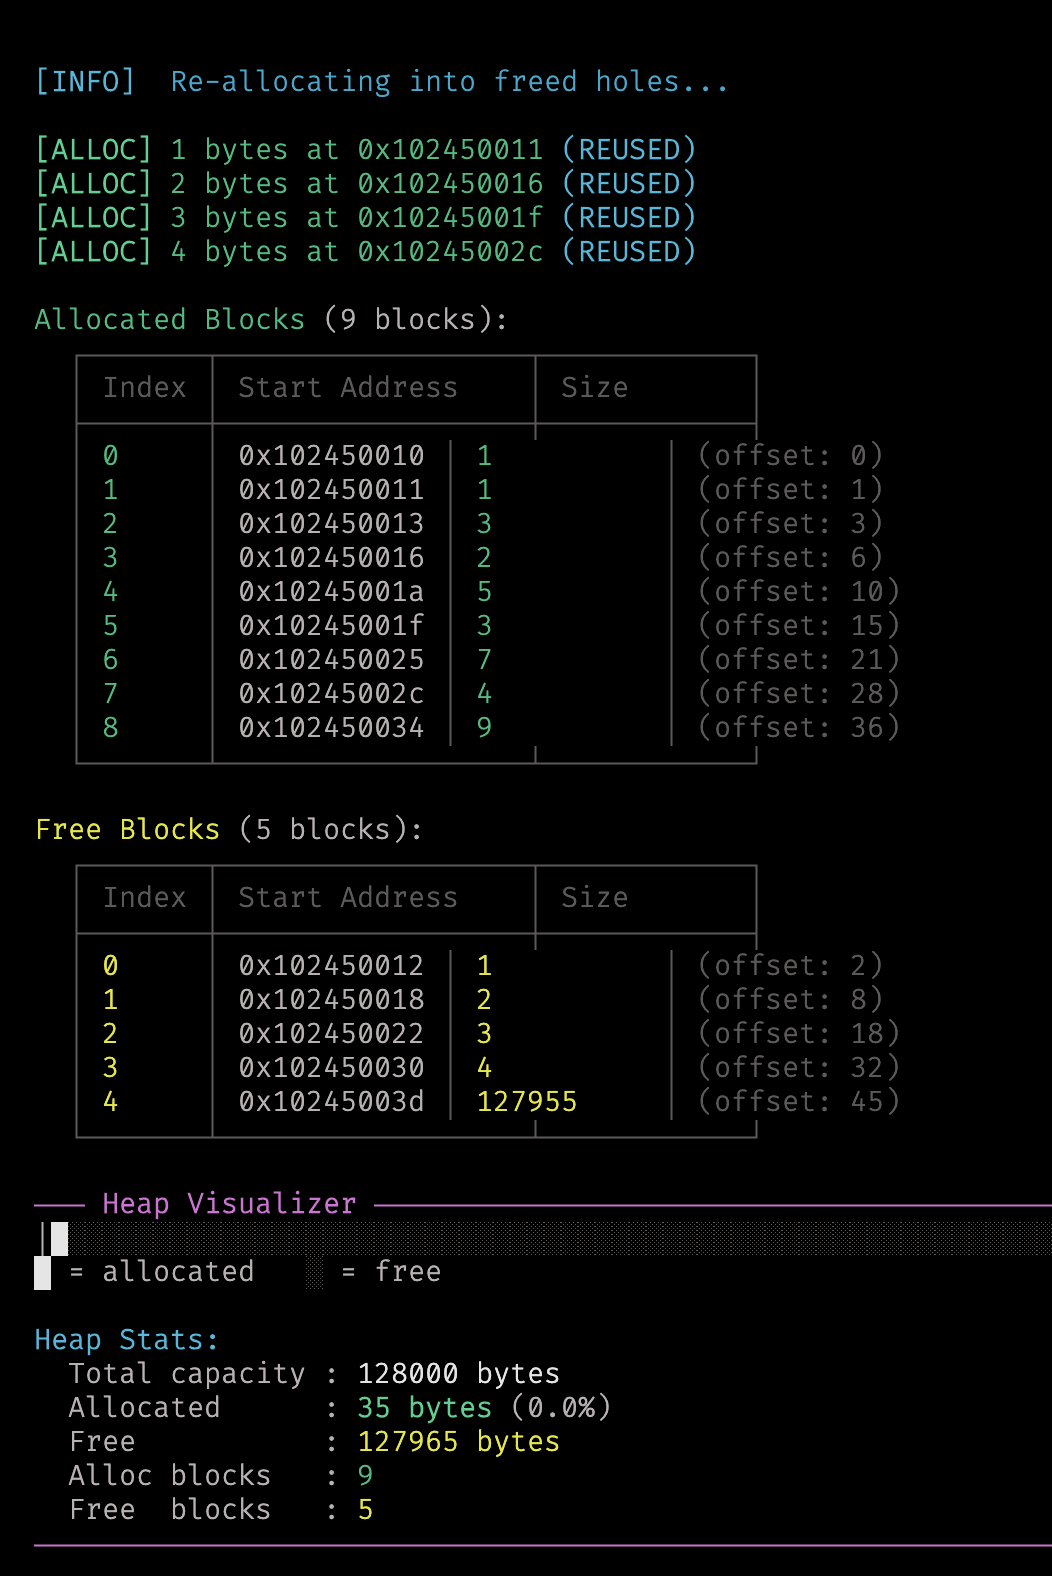
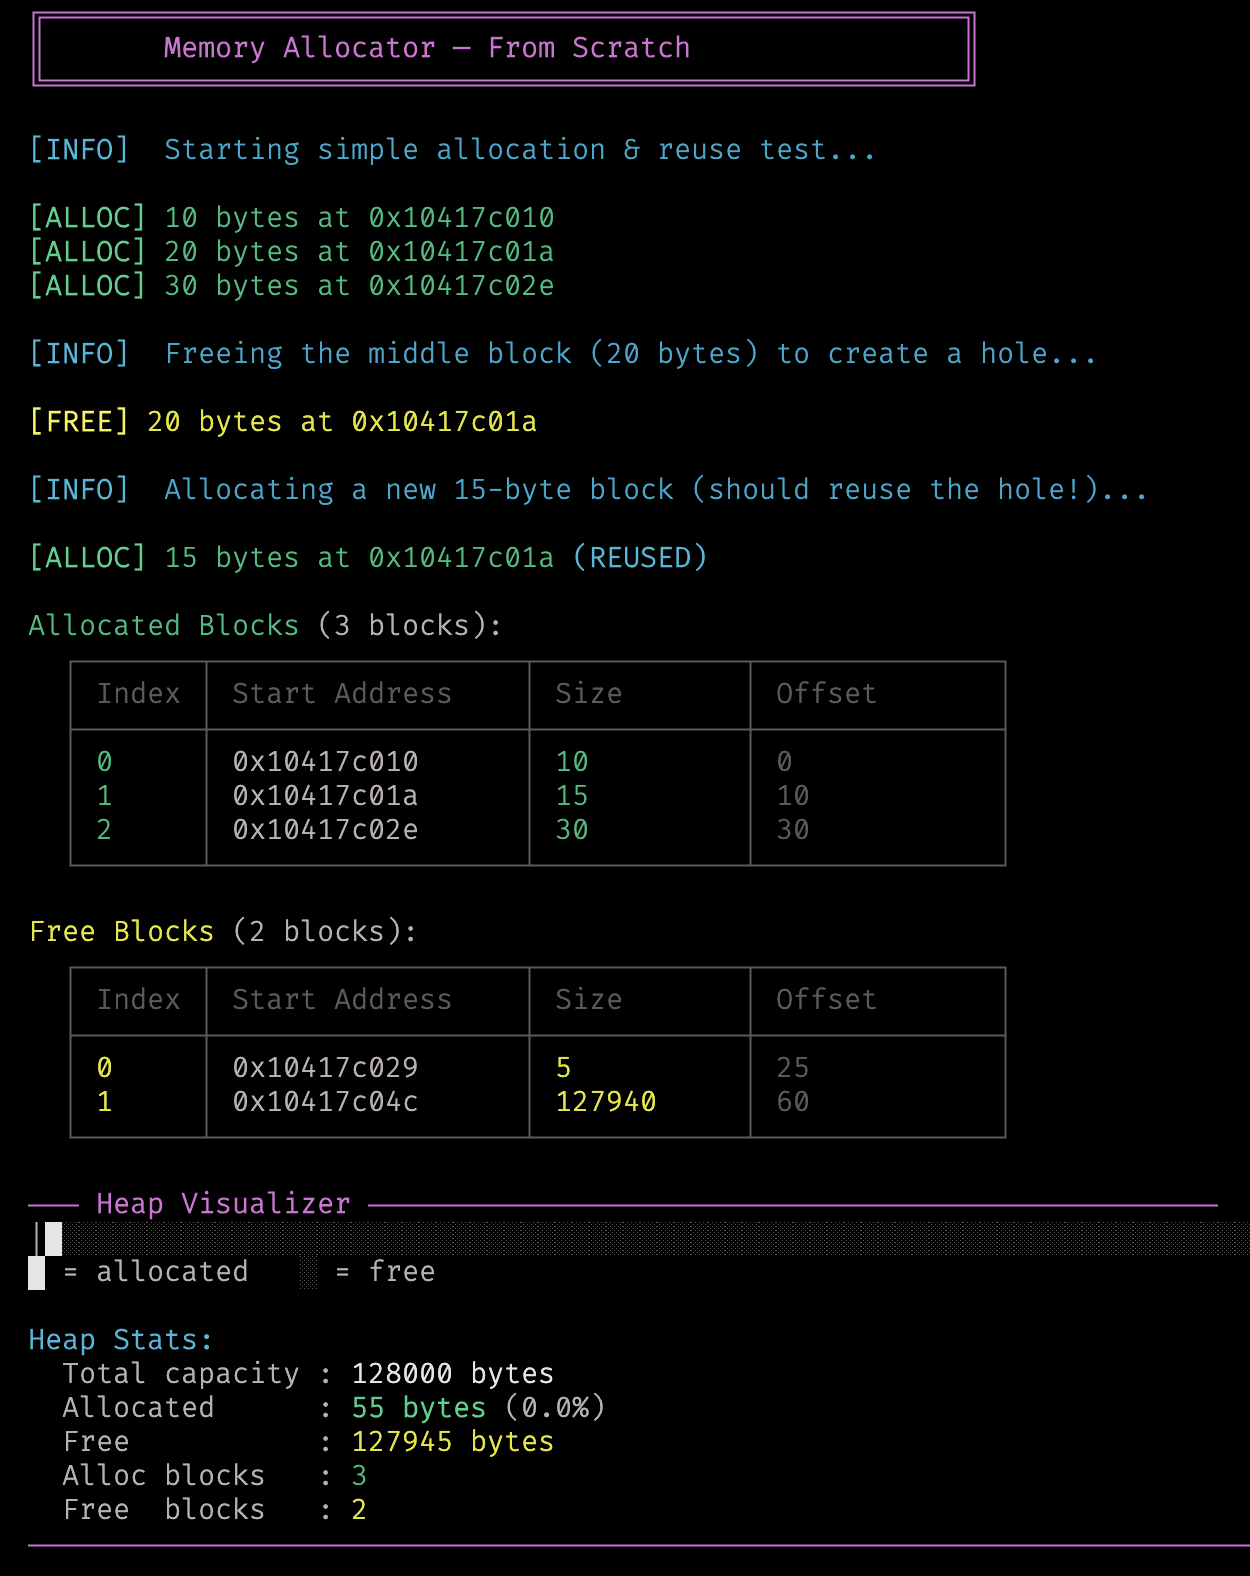
[feat-docs]: implement interactive memory allocation simulation

Changed region(s): [[0.0, 0.0, 0.8517, 0.7151], [0.0, 0.7462, 1.0, 0.9638], [0.7909, 0.2176, 0.8213, 0.2487]]

diff --git a/README.md b/README.md
@@ -1,12 +1,19 @@
-# 🧠 Memory Allocator — From Scratch
+# 🧠 Memory Allocator - From Scratch
 
-A minimal, educational **first-fit free-list memory allocator** written in C17. No `malloc`, no `sbrk` — just a static buffer and manual bookkeeping.
+#### NOTE: Documentation generated via Antigravity 
+
+A minimal, educational **first-fit free-list memory allocator** written in C17. This project implements dynamic memory management using a static buffer and manual bookkeeping, without relying on `malloc` or `sbrk`.
 
 ---
 
 ## Table of Contents
 
-- [Output](#output)
+- [Features](#features)
+- [Output & Demonstrations](#output--demonstrations)
+  - [Basic Allocation & Freeing](#basic-allocation--freeing)
+  - [Memory Reuse](#memory-reuse)
+  - [Larger Allocation](#larger-allocation)
+  - [Live Simulation Mode](#live-simulation-mode)
 - [Theory](#theory)
   - [What Is a Heap?](#what-is-a-heap)
   - [Free List](#free-list)
@@ -14,19 +21,29 @@ A minimal, educational **first-fit free-list memory allocator** written in C17. 
   - [Block Splitting](#block-splitting)
   - [Coalescing](#coalescing)
   - [Fragmentation](#fragmentation)
-  - [Reuse Detection](#reuse-detection)
-- [How It Works](#how-it-works)
+- [Implementation](#implementation)
 - [Project Structure](#project-structure)
 - [Build & Run](#build--run)
 - [Roadmap](#roadmap)
 
 ---
 
-## Output
+## Features
+
+- **First-fit Allocation**: Scans the free list to find the first suitable memory chunk.
+- **Block Splitting**: Exact-size carving prevents internal memory waste.
+- **Coalescing**: Adjacent free blocks merge automatically to combat fragmentation.
+- **Advanced Visualizer**: ASCII-art based visualization of heap fragmentation, usage, and pointer arrays.
+- **Live Simulation Mode**: Animated tracking of memory allocations and frees in real-time.
+- **Reuse Detection**: Tracks high-water marks to confirm holes are being filled.
+
+---
+
+## Output & Demonstrations
 
 ### Basic Allocation & Freeing
 
-The allocator runs a test that allocates 10 blocks (sizes 0–9), frees the even-indexed ones, and displays the resulting heap state with a visual memory map.
+The allocator runs a test that allocates 10 blocks, frees the even-indexed ones, and displays the resulting heap state with a visual memory map.
 
 ![Basic allocation and free demo](./assets/demo.png)
 
@@ -42,6 +59,12 @@ A 100-byte allocation is placed into the heap's free tail region. The heap visua
 
 ![Larger allocation example](./assets/bigger_allocation.png)
 
+### Live Simulation Mode
+
+The allocator features an **In-Place Live Simulation** mode that visually demonstrates pointer movements, memory usage, and fragmentation dynamically. Watch as `A` (allocated) and `F` (free) pointers dynamically update the underlying fragmented heap map!
+
+![Live simulation example](./assets/simulation.png)
+
 ---
 
 ## Theory
@@ -53,159 +76,69 @@ In most programs, `malloc` and `free` manage a region of memory called the **hea
 This project simulates a heap using a **static array**:
 
 ```c
-char heap_buffer[128000];  // 128 KB of raw memory
+char heap_buffer[128000];
 ```
 
 The allocator manages this buffer by maintaining two sorted lists — one for **allocated blocks** and one for **free blocks**. Every byte in the buffer belongs to exactly one of these lists at any given time.
 
-```
-┌────────────────────────────────────────────────────────────┐
-│                    heap_buffer (128 KB)                     │
-│  ┌──────┬──────┬──────┬──────┬──────┬────────────────────┐ │
-│  │ used │ free │ used │ free │ used │    free (tail)      │ │
-│  └──────┴──────┴──────┴──────┴──────┴────────────────────┘ │
-└────────────────────────────────────────────────────────────┘
-```
-
 ### Free List
 
-The allocator tracks every free region as a `Heap_Block`:
+The allocator tracks every free region as a `MemBlock`:
 
 ```c
 typedef struct {
-    void  *start;   // pointer to the first byte of this block
-    size_t size;    // number of bytes in this block
-} Heap_Block;
+    void  *start;
+    size_t size;
+} MemBlock;
 ```
 
 All free blocks are kept in a **sorted array** (sorted by `start` address). Sorting enables:
-- **Binary search** (`bsearch`) for O(log n) lookups when freeing
-- **Linear scan** for first-fit allocation
-- **Coalescing** — adjacent free blocks are always neighbors in the array
-
-Initially, the entire heap is one giant free block:
-
-```c
-Heap_Block_List heap_freed_blocks = {
-    .count = 1,
-    .blocks = { [0] = { .start = heap_buffer, .size = 128000 } }
-};
-```
+- **Binary search** (`bsearch`) for O(log n) lookups when freeing.
+- **Linear scan** for first-fit allocation.
+- **Coalescing** — adjacent free blocks are always neighbors in the array.
 
 ### First-Fit Allocation
 
-When `heap_alloc(size)` is called, the allocator scans the free list **from the beginning** and picks the **first block that is large enough**:
-
-```
-Free list:  [2 bytes] → [8 bytes] → [4 bytes] → [127900 bytes]
-                            ↑
-Request: alloc(5)      fits here! (8 ≥ 5)
-```
-
-**Why first-fit?**
-
-| Strategy  | Behavior                         | Trade-off                       |
-|-----------|----------------------------------|---------------------------------|
-| First-fit | Take the first block that fits   | Fast, but can fragment the front |
-| Best-fit  | Take the smallest fitting block  | Less waste, but slower scan      |
-| Worst-fit | Take the largest block           | Leaves big chunks, but fragments |
-
-First-fit is the simplest and often performs surprisingly well in practice.
+When `heap_alloc(size)` is called, the allocator scans the free list **from the beginning** and picks the **first block that is large enough**. First-fit is the simplest and often performs surprisingly well in practice.
 
 ### Block Splitting
 
-If the chosen free block is **larger** than requested, the allocator **splits** it:
-
-```
-Before:   [████████ 8 bytes free ████████]
-
-alloc(3)
-
-After:    [███ 3B alloc ███][█████ 5B free █████]
-```
-
-The first portion becomes allocated; the leftover tail stays in the free list. This ensures no memory is wasted beyond what's requested.
+If the chosen free block is **larger** than requested, the allocator **splits** it. The first portion becomes allocated; the leftover tail stays in the free list. This ensures no memory is wasted beyond what's requested.
 
 ### Coalescing
 
-When a block is freed, it's inserted back into the free list. The allocator then checks for **adjacent free blocks** and merges them:
+When a block is freed, it is inserted back into the free list. The allocator then checks for **adjacent free blocks** and merges them. Without coalescing, the free list would accumulate tiny fragments that can never satisfy larger allocations.
 
-```
-Before free(B):
-  [AAAA][BBBB][....free....]
-
-After free(B):
-  [AAAA][........merged free........]
-       ↑ B merges with the free block to its right
-```
-
-Without coalescing, the free list would accumulate tiny fragments that can never satisfy larger allocations — even though the total free memory is sufficient. This is the classic **external fragmentation** problem.
-
-The coalescing pass runs in O(n) after every `free`:
-
-```c
-void heap_coalesce_free_blocks(void) {
-    for (size_t i = 0; i + 1 < heap_freed_blocks.count; ) {
-        Heap_Block *curr = &heap_freed_blocks.blocks[i];
-        Heap_Block *next = &heap_freed_blocks.blocks[i + 1];
-        if ((char *)curr->start + curr->size == (char *)next->start) {
-            curr->size += next->size;   // merge
-            chunk_list_remove(&heap_freed_blocks, i + 1);
-        } else {
-            i++;
-        }
-    }
-}
-```
+The coalescing pass runs in O(n) after every `free`.
 
 ### Fragmentation
 
-Even with coalescing, **external fragmentation** can still occur when allocated blocks separate free regions that can't be merged:
-
-```
-[alloc 1B][free 1B][alloc 3B][free 2B][alloc 5B][free 3B][alloc 7B]...
-```
-
-The total free space might be 6 bytes, but the largest contiguous block is only 3 — so `alloc(4)` would fail. This is an inherent limitation of any allocator that doesn't move blocks (no compaction).
-
-**Internal fragmentation** is minimal in this allocator because we split blocks exactly. The only waste is the metadata overhead (two pointers per tracked block).
-
-### Reuse Detection
-
-The allocator tracks a **high-water mark** — the furthest point in the buffer that has ever been allocated. When a new allocation lands **below** this mark, it means the allocator is filling a hole left by a previous `free()`, and the log is tagged with **(REUSED)**:
-
-```
-[ALLOC] 1 bytes at 0x102450011 (REUSED)    ← filling a freed hole
-[ALLOC] 2 bytes at 0x102450016 (REUSED)    ← filling a freed hole
-[ALLOC] 5 bytes at 0x10245003d             ← extending into fresh heap
-```
-
-This provides a clear visual indicator of how efficiently the allocator reclaims freed memory.
+Even with coalescing, **external fragmentation** can still occur when allocated blocks separate free regions that cannot be merged. **Internal fragmentation** is minimal in this allocator because blocks are split exactly.
 
 ---
 
-## How It Works
+## Implementation
 
-- **`heap_alloc(size)`** — First-fit scan of the free list; splits the block if it's larger than requested
-- **`heap_free(ptr)`** — Finds the block via `bsearch`, moves it to the free list, then coalesces adjacent free blocks
-- **`heap_coalesce_free_blocks()`** — Merges touching free blocks to combat fragmentation
-- **`heap_visualize()`** — Renders a colored ASCII bar (`█` = allocated, `░` = free) with heap statistics
-- Block lists stay sorted by address (insertion sort on add, `bsearch` on find)
+- **`heap_alloc(size)`**: First-fit scan of the free list; splits the block if it's larger than requested.
+- **`heap_free(ptr)`**: Finds the block via `bsearch`, moves it to the free list, then coalesces adjacent free blocks.
+- **`heap_coalesce_free_blocks()`**: Merges touching free blocks to combat fragmentation.
+- **`heap_visualize()`**: Renders an advanced ASCII visualization of the heap showing block arrays, directional arrows, and physical layout.
+- Block lists stay sorted by address (insertion sort on add, `bsearch` on find).
 
 ---
 
 ## Project Structure
 
-```
+```text
 ├── src/
-│   ├── main.c        # Allocator logic (alloc, free, coalesce, block ops) + test driver
+│   ├── main.c        # Allocator logic (alloc, free, coalesce) + simulation driver
 │   ├── heap.h        # Types, constants, extern declarations
 │   ├── display.h     # ANSI color macros, logging macros, display API
-│   └── display.c     # Table dump, heap visualizer, banner
+│   └── display.c     # Advanced heap visualizer and banner formatting
 ├── assets/
-│   ├── demo.png              # Basic allocation & free output
-│   ├── reused.png            # Memory reuse detection output
-│   └── bigger_allocation.png # Larger allocation example
+│   ├── demo.png
+│   ├── reused.png
+│   └── bigger_allocation.png
 ├── Makefile
 ├── TODOS.txt
 └── README.md
@@ -232,8 +165,9 @@ Requires a C17 compiler (`clang` by default).
 - [x] Block splitting on allocation
 - [x] Block coalescing on free
 - [x] Sorted block lists (insertion sort + `bsearch`)
-- [x] Heap visualizer (ASCII bar + stats)
+- [x] Advanced ASCII heap visualizer
 - [x] Reuse detection logging
+- [x] Live Simulation Mode
 - [ ] Best-fit / worst-fit strategies
 - [ ] Thread safety (mutex locking)
 - [ ] Garbage collector (`gc_collect` is stubbed)